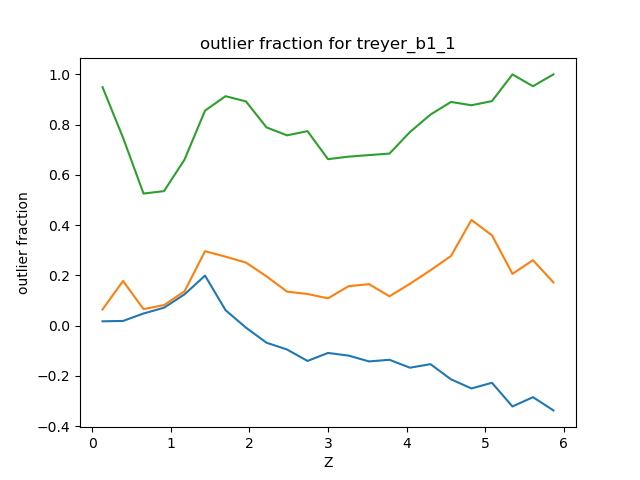
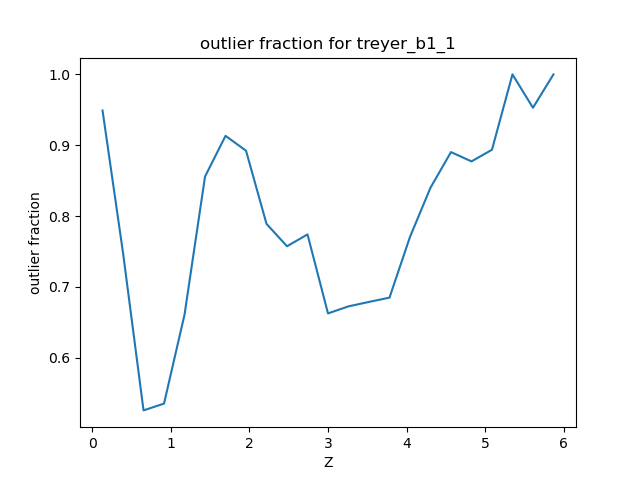
sync

diff --git a/scripts/compute_metrics.py b/scripts/compute_metrics.py
@@ -23,7 +23,7 @@ def inception_block(input):
 
 def create_model(with_ebv=False) :
 
-    input_img = keras.Input((64, 64, 9))
+    input_img = keras.Input((64, 64, 5))
     #input_ebv = keras.Input((1,))
     conv1 = layers.Conv2D(96, kernel_size=5, activation='relu', strides=1, padding='same', name='c1')(input_img)
     conv2 = layers.Conv2D(96, kernel_size=3, activation='tanh', strides=1, padding='same', name='c2')(conv1)
@@ -56,7 +56,7 @@ def create_model(with_ebv=False) :
     l2 = layers.Dense(1024, activation='relu', name='l2')(l1)
     l3 = layers.Dense(512, activation='tanh', name='l3')(l1)
 
-    pdf = layers.Dense(300, activation='softmax', name='pdf')(l2)
+    pdf = layers.Dense(400, activation='softmax', name='pdf')(l2)
     regression = layers.Dense(1, activation='relu', name='reg')(l3)
     if with_ebv :
         model = keras.Model(inputs=[input_img, ebv_input], outputs=[pdf, regression])
@@ -125,8 +125,8 @@ base_path = "/lustre/fswork/projects/rech/dnz/ull82ct/astro/"
 #model = FineTuneModel(backbone(True), head=regression_head(1024))
 model = create_model()
 treyer = True
-model.load_weights(base_path+"model_save/checkpoints_supervised/treyer_supervised_b1_1.weights.h5")
-model_name='treyer_b1_1'
+model.load_weights(base_path+"model_save/checkpoints_supervised/treyer_supervised_b2_1.weights.h5")
+model_name='treyer_b2_1'
 
 directory = base_path+"data/spec/"
 
@@ -140,21 +140,27 @@ pred_z = []
 
 def extract_z(tup) :
     return tup[40]
-
+counter = 0
 for file in npz_files :
-    data = np.load(file, allow_pickles=True)
-    images = data["cube"]
+    data = np.load(base_path+"data/spec/"+file, allow_pickle=True)
+    images = data["cube"][..., :5]
     meta = data["info"]
     z = np.array([extract_z(m) for m in meta])
+    #print(z.shape)
     true_z.append(z)
     if treyer :
         probas, reg = model.predict(images)
-
+        #print(reg.shape)
+        reg = reg[:, 0]
+        #print(reg.shape)
     else :
         reg = model.predict(images)
-
+    
     pred_z.append(reg)
-
+    counter+=1
+    
+#print(true_z)
+#print(pred_z)
 
 true_z = np.concatenate(true_z, axis=0)
 pred_z = np.concatenate(pred_z, axis=0)
@@ -173,7 +179,7 @@ plt.ylabel("pred Z")
 plt.xlim((-1, 6))
 plt.ylim((-1, 6))
 plt.title("prediction density heatmap")
-plt.savefig("density_heatmap_"+model_name+".png")
+plt.savefig(base_path+"plots/simCLR/density_heatmap_"+model_name+".png")
 plt.close()
 
 
@@ -219,19 +225,21 @@ plt.xlabel("Z")
 plt.ylabel("prediction bias")
 plt.title("prediction bias for "+model_name)
 plt.savefig(base_path+"plots/simCLR/bias_"+model_name+".png")
+plt.close()
 
 plt.plot(bins_centres, smad)
 plt.xlabel("Z")
 plt.ylabel("sMAD")
 plt.title("Sigma MAD for "+model_name)
 plt.savefig(base_path+"plots/simCLR/smad_"+model_name+".png")
+plt.close()
 
 plt.plot(bins_centres, outl)
 plt.xlabel("Z")
 plt.ylabel("outlier fraction")
 plt.title("outlier fraction for "+model_name)
 plt.savefig(base_path+"plots/simCLR/outl_"+model_name+".png")
-
+plt.close()
 
 
 bias = np.zeros((len(megabins_edges)-1))

diff --git a/scripts/simCLR_finetune.py b/scripts/simCLR_finetune.py
@@ -99,12 +99,12 @@ class DataGen(keras.utils.Sequence) :
         images = data["cube"][..., :5]  # on ne prend que les 5 premières bandes
         masks = np.expand_dims(data["cube"][..., 5], axis=-1)
 
-        images = np.sign(images)*(np.sqrt(np.abs(images)+1)-1 )   # PAS BESOIN CAR SAUVEGARDEES NORMALISES
+        #images = np.sign(images)*(np.sqrt(np.abs(images)+1)-1 )   # PAS BESOIN CAR SAUVEGARDEES NORMALISES
         self.images = np.concatenate([images, masks], axis=-1)  # N, 64, 64, 6
 
         meta = data["info"]
         self.z_values = meta[:, 6]
-
+        self.z_values = self.z_values.astype(np.float32)
     def __len__(self):
         return int(np.ceil(len(self.images) / self.batch_size))
     
@@ -155,7 +155,8 @@ class LearningRateDecay(tf.keras.callbacks.Callback):
 
 bn=True
 
-weights_path = "/lustre/fswork/projects/rech/dnz/ull82ct/astro/model_save/checkpoints_simCLR_UD/simCLR_cosmos_bnTrue_100.weights.h5"
+weights_path = "/lustre/fswork/projects/rech/dnz/ull82ct/astro/model_save/checkpoints_simCLR_UD
+/simCLR_cosmos_bnTrue_400.weights.h5"
 name = "UD"
 
 
@@ -172,7 +173,7 @@ for base in ["b1_1", "b1_2", "b2_1", "b2_2", "b3_1", "b3_2"] :
     predictor = regression_head(1024)
 
     model1 = FineTuneModel(extracteur, predictor, train_back=False)
-    model1.compile(optimizer=keras.optimizers.Adam(1e-4), loss="mse")
+    model1.compile(optimizer=keras.optimizers.Adam(1e-4), loss="mae")
     history = model1.fit(data_gen, epochs=50, callbacks=[LearningRateDecay()])
     model1.save_weights("/lustre/fswork/projects/rech/dnz/ull82ct/astro/model_save/checkpoints_simCLR_finetune/simCLR_finetune_HeadOnly_base="+base+"_model="+name+".weights.h5")
 

diff --git a/scripts/cosmos_full_supervised.py b/scripts/cosmos_full_supervised.py
@@ -81,7 +81,7 @@ class DataGen(keras.utils.Sequence) :
         images = data["cube"][..., :5]  # on ne prend que les 5 premières bandes
         masks = np.expand_dims(data["cube"][..., 5], axis=-1)
 
-        images = np.sign(images)*(np.sqrt(np.abs(images)+1)-1 )   # PAS BESOIN CAR SAUVEGARDEES NORMALISES
+        #images = np.sign(images)*(np.sqrt(np.abs(images)+1)-1 )   # PAS BESOIN CAR SAUVEGARDEES NORMALISES
         self.images = np.concatenate([images, masks], axis=-1).astype(np.float32)  # N, 64, 64, 6
 
         meta = data["info"]
@@ -89,7 +89,7 @@ class DataGen(keras.utils.Sequence) :
         self.z_values = self.z_values.astype("float32")
         print("Z VALS", self.z_values)
         
-        bins_edges = np.concatenate([np.linspace(0, 4, 380), np.linspace(4, 6, 21)[1:]], axis=0)
+        bins_edges = np.concatenate([np.linspace(0, 4, 381), np.linspace(4, 6, 21)[1:]], axis=0)
         self.z_bins = np.zeros((len(self.z_values)))
         for j, z in enumerate(self.z_values) :
             i = 0
@@ -164,7 +164,7 @@ for base in base_names :
     model = create_model()
     gen = DataGen(base_path+base+".npz", batch_size=32)
 
-    model.compile(optimizer=tf.keras.optimizers.Adam(1e-4), loss=[tf.keras.losses.SparseCategoricalCrossentropy(), tf.keras.losses.MeanSquaredError()])
+    model.compile(optimizer=tf.keras.optimizers.Adam(1e-4), loss=[tf.keras.losses.SparseCategoricalCrossentropy(), tf.keras.losses.MeanAbsoluteError()])
     model.fit(gen, epochs=50, callbacks=[LearningRateScheduler()])
 
     model.save_weights("/lustre/fswork/projects/rech/dnz/ull82ct/astro/model_save/checkpoints_supervised/treyer_supervised_"+base+".weights.h5")

diff --git a/scripts/simCLR_features.py b/scripts/simCLR_features.py
@@ -95,7 +95,9 @@ def mlp_adv(input_shape=1024) :
 
 bn=True
 
+
 model = simCLR(backbone(bn), mlp(1024))
+
 
 folder_path2 = "/lustre/fswork/projects/rech/dnz/ull82ct/astro/data/spec/"
 
@@ -125,7 +127,7 @@ origin_label = []
 
 def extract_meta(tup) :
     # RA   DEC   EB_V   ZPHOT   EBV
-    return np.array([tup[1], tup[2], tup[7], max(tup[29], 1e-4), tup[35]])
+    return np.array([tup[1], tup[2], tup[7], max(tup[40], 1e-5), tup[35]])
 
 for i in range(len(indices2)) :
     
@@ -203,8 +205,8 @@ for s in origin_label :
     labels.append(s)
 
 
-weights_paths = ["../model_save/checkpoints_simCLR_UD/simCLR_cosmos_bnTrue_100.weights.h5", "../model_save/checkpoints_simCLR_UD_D/simCLR_cosmos_bnTrue_100.weights.h5", '../model_save/checkpoints_simCLR_UD_D_adv/simCLR_cosmos_bnTrue_100.weights.h5']
-code_w = ['UD', 'UD_D', 'UD_D_adv']
+weights_paths = ["../model_save/checkpoints_simCLR_UD/simCLR_cosmos_bnTrue_400.weights.h5", "../model_save/checkpoints_simCLR_UD_D/simCLR_cosmos_bnTrue_400.weights.h5", '../model_save/checkpoints_simCLR_UD_D_adv/simCLR_cosmos_bnTrue_400.weights.h5']
+code_w = ['UD400', 'UD_D400', 'UD_D_adv400']
 
 model = simCLR(backbone=backbone(), head=mlp(1024))
 model(np.random.random((32, 64, 64, 5)))
@@ -218,8 +220,10 @@ for i, w in enumerate(weights_paths) :
 
     
     extractor = model.backbone
-
-    features = extractor.predict(images)
+    if i ==2 :
+        features, flatten = extractor.predict(images)
+    else :
+        features = extractor.predict(images)
     if np.isnan(features).any():
         print("Found NaN values in features, replacing them with 0...")
         features = np.nan_to_num(features, nan=0.0)

diff --git a/scripts/simCLR_UD_D_adv.py b/scripts/simCLR_UD_D_adv.py
@@ -66,7 +66,7 @@ bn=True
 model = simCLR_adversarial(backbone(bn), mlp(1024), adversaire=mlp_adversarial())
 model.compile(optimizer=keras.optimizers.Adam(1e-3), loss=ContrastivLoss())
 model(np.random.random((32, 64, 64, 5)))
-#model.load_weights("simCLR_cosmos100.weights.h5")
+model.load_weights("/lustre/fswork/projects/rech/dnz/ull82ct/astro/model_save/checkpoints_simCLR_UD_D_adv/simCLR_cosmos_bnTrue_400.weights.h5")
 
 
 data_gen = AdversarialGen(["/lustre/fswork/projects/rech/dnz/ull82ct/astro/data/spec/", "/lustre/fswork/projects/rech/dnz/ull82ct/astro/data/phot/"], 
